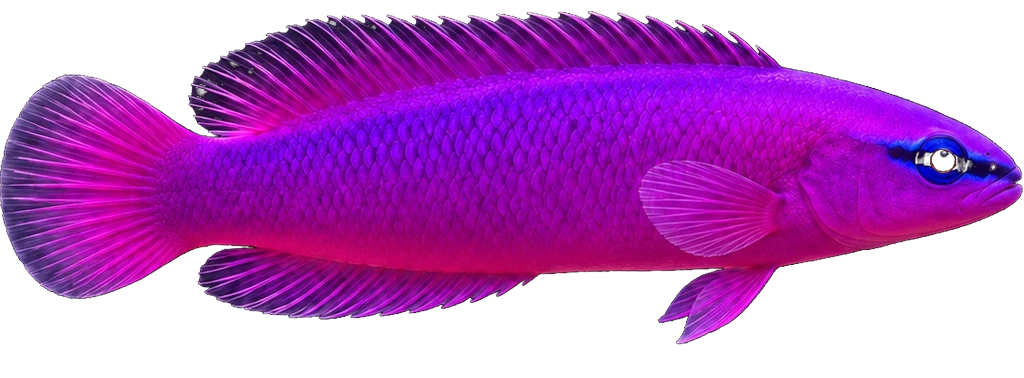
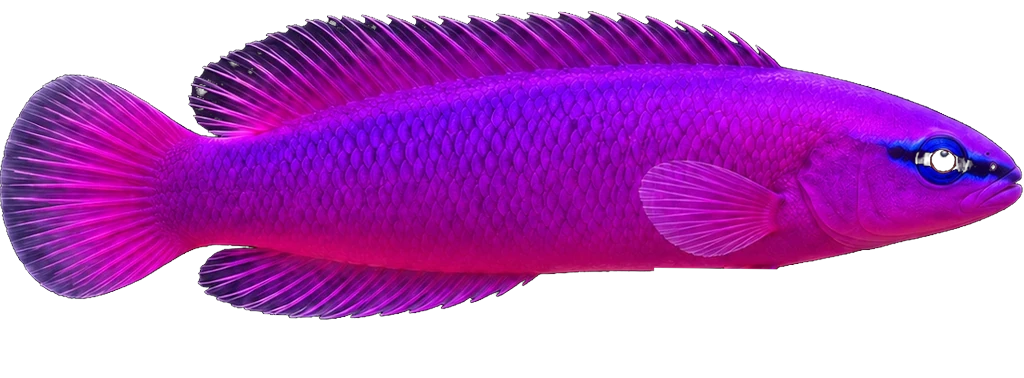
photoart round 2: rear belly bulge capped (anal fin base no longer lofted into the body), 3D pectoral/pelvic rooted on the body at the sheet's positions, pelvic erased from the card, wider low cheeks and bigger eye bulge; thickfit script

Changed region(s): [[0.625, 0.6984, 0.7812, 0.9312]]

diff --git a/scripts/fish3d-cutout-test.ts b/scripts/fish3d-cutout-test.ts
@@ -33,7 +33,13 @@ if (mode === 'measured') {
 }
 document.title += ' plan ok'; // photo cards already carry the fish's own eye and paired fins: drop the plan's 3D pectoral/pelvic leaves (?paired=keep keeps them),
 // and either hide the 3D eye (default) or seat it on the photo's eye (?eye=place&ex=px&ey=px&er=px, sheet pixels, SL in sheet px = esl, axis y = eaxis)
-if (mode === 'measured' && q.get('paired') !== 'keep') { P.pectoral = false; delete P.pelvic; }
+if (mode === 'measured' && q.get('paired') === 'photo') {
+  // 3D pectoral and pelvic rooted where the sheet's side view roots them (sheet px: snout 1275, axis 207, SL 896; pectoral root 1010,233; pelvic root 1005,295, 120 px long)
+  const sl = 896, SLc = 1 - P.pedU, pu = 1 - (1275 - 1010) / sl * SLc, [pt, pb] = profile(P)(pu), pv = (26 / sl * SLc - pt) / (pb - pt);
+  P.pectoral = true; P.pec = { u: pu, v: pv, s: +(q.get('pecs') ?? 1), tint: '#b848c8', ...(q.get('pecspread') ? { spread: +q.get('pecspread') } : {}) };
+  P.pelvic = { u: 1 - (1275 - 1005) / sl * SLc, len: 120 / sl * SLc, tint: '#c050e0' };
+} else if (mode === 'measured' && q.get('paired') !== 'keep') { P.pectoral = false; delete P.pelvic; }
+if (mode !== 'current') { if (q.get('wide')) P.wide = +q.get('wide'); if (q.get('bulge')) P.eye = { ...P.eye, bulge: +q.get('bulge') }; if (q.get('belly')) P.belly = +q.get('belly'); }
 if (mode !== 'current') {
   if (q.get('eye') === 'place') {
     const sl = +q.get('esl'), U1 = 1, SLc = 1 - P.pedU, u = U1 - (+q.get('sx') - +q.get('ex')) / sl * SLc, v = (+q.get('eaxis') - +q.get('ey')) / sl * -1 * SLc;
@@ -60,5 +66,5 @@ function shoot(yaw, pitch) {
 }
 const sheet = document.createElement('canvas'); sheet.width = W * 2; sheet.height = H * 2 + 0; const x = sheet.getContext('2d'); x.font = '16px sans-serif'; x.fillStyle = '#fff';
 VIEWS.forEach(([l, y, p], i) => { x.drawImage(shoot(y, p), (i % 2) * W, Math.floor(i / 2) * H); x.fillText(`${mode} | ${l}`, (i % 2) * W + 8, Math.floor(i / 2) * H + 20); });
-await new Promise(r => sheet.toBlob(async b => { await fetch('/__shot?name=ORCH3D' + suf + '-' + mode + (q.get('fins') === '0' ? '-nofins' : '') + (q.get('eye') === 'place' ? '-eye' : '') + (q.get('paired') === 'keep' ? '-pairs' : ''), { method: 'POST', body: b }); r(); }, 'image/png'));
+await new Promise(r => sheet.toBlob(async b => { await fetch('/__shot?name=ORCH3D' + suf + '-' + mode + (q.get('fins') === '0' ? '-nofins' : '') + (q.get('eye') === 'place' ? '-eye' : '') + (q.get('paired') ? '-p' + q.get('paired') : '') + (q.get('pecs') ? '-s' + Math.round(+q.get('pecs') * 100) : '') + (q.get('wide') ? '-w' + Math.round(+q.get('wide') * 100) : ''), { method: 'POST', body: b }); r(); }, 'image/png'));
 document.getElementById('s').textContent = 'done ' + mode; document.title = 'done ' + mode;

diff --git a/src/art/photoart.ts b/src/art/photoart.ts
@@ -17,8 +17,13 @@ const top = d.stations.map((s, i) => [U(s), -Wd(d.top[i])] as [number, number]),
 Object.assign(P, { pedU, outline: [...top, ...bot.reverse()] });
 P.thick = A.thickness.fit.thick; P.pedT = A.thickness.fit.pedT;                       // from the top view's widths
 P.tail = { ...P.tail, h: Wd(Math.max(...A.fins.caudal.outline.map(c => (c[1] + c[2]) / 2))) };
-P.pectoral = false; delete P.pelvic;                                                    // the photo already carries both
+// paired fins: 3D ones rooted where the sheet's side view roots them (sheet px: snout 1275, axis 207, SL 896; pectoral root 1010,233; pelvic root 1005,295, 120 px long),
+// so the front and 3/4 views show fins attached to the body; the card image has the pelvic erased (the 3D one replaces it), the painted pectoral stays flat on the flank
+{ const sl = 896, pu = 1 - (1275 - 1010) / sl * SLc, [pt, pb] = profile(P)(pu);
+  P.pectoral = true; P.pec = { u: pu, v: (26 / sl * SLc - pt) / (pb - pt), s: 1.2, tint: '#b848c8', spread: 1.0 };
+  P.pelvic = { u: 1 - (1275 - 1005) / sl * SLc, len: 120 / sl * SLc, tint: '#c050e0' }; }
+P.wide = 0.3;                                                                           // head-on the sheet's body is widest low, a round chin
 // the photo's own eye (sheet px: eye centre 1190,177, ring radius 14, snout 1275, axis 207, SL 896) gets a 3D eye seated on it
 { const sl = 896, u = 1 - (1275 - 1190) / sl * SLc, v = -(207 - 177) / sl * SLc, [et, eb] = profile(P)(u);
-  P.eye = { ...P.eye, u, dv: (v - et) / (eb - et) - 0.38, r: 14 / sl * SLc, iris: ['#c8902a', '#0a0206'] }; }
+  P.eye = { ...P.eye, u, dv: (v - et) / (eb - et) - 0.38, r: 14 / sl * SLc, bulge: 0.6, iris: ['#c8902a', '#0a0206'] }; }
 FISH_ART.orchiddottyback = (ctx, _p, W) => ctx.drawImage(img, 0, 0, W, W * (ctx.canvas.height / ctx.canvas.width));

diff --git a/scripts/fish-thickfit.py b/scripts/fish-thickfit.py
@@ -1,0 +1,18 @@
+#!/usr/bin/env python3
+"""Fit fish3d sections() half-thickness (thick, pedT) to the top-view half-widths in anatomy.json (run after fish-topview.py).
+  python -I scripts/fish-thickfit.py anatomy.json"""
+import json, sys
+import numpy as np
+p = sys.argv[1]; J = json.load(open(p)); A = J['anatomy']; d = A['depthProfile']
+st = np.array(d['stations'], float); top = np.array(d['top']); bot = np.array(d['bottom']); hw = np.array(A['thickness']['halfWidthPctSL'])
+pedU = 1 - 1 / A['tlOverSl']; SLc = 1 - pedU
+hv = (top + bot) / 2 / 100 * SLc; maxHv = hv.max(); s = 1 - st / 100; tm = hw / 100 * SLc
+best = None
+for thick in np.linspace(0.2, 1.6, 141):
+    for pedT in np.linspace(0, 1, 101):
+        t = thick * (0.35 * hv + 0.65 * maxHv * np.sin(np.minimum(1, hv / maxHv) * np.pi / 2)) * (pedT + (1 - pedT) * np.sqrt(np.clip(s, 0, 1)))
+        e = np.sqrt(np.mean((t - tm)[1:-1] ** 2))
+        if best is None or e < best[0]: best = (e, thick, pedT)
+e, thick, pedT = best
+A['thickness']['fit'] = {'thick': round(float(thick), 3), 'pedT': round(float(pedT), 3), 'rmsPctSL': round(float(e / SLc * 100), 2), 'note': 'least-squares fit of fish3d sections() half-thickness to the top-view half-width'}
+json.dump(J, open(p, 'w'), indent=1); print(A['thickness']['fit'])

diff --git a/scripts/fish-cutout-card.py b/scripts/fish-cutout-card.py
@@ -7,11 +7,14 @@ Alpha = brightness above a low threshold (black background photos only; for busy
 import json, sys
 import numpy as np
 from PIL import Image
-pos = [a for a in sys.argv[1:] if not a.startswith('--')]
+pos = [a for i, a in enumerate(sys.argv[1:]) if not a.startswith('--') and not (i > 0 and sys.argv[i].startswith('--'))]
 opt = {a: sys.argv[i + 2] for i, a in enumerate(sys.argv[1:-1]) if a.startswith('--')}
 src, js, out = pos
 asp = float(opt.get('--aspect', 0.369))
-J = json.load(open(js)); im = Image.open(src).convert('RGB'); a = np.asarray(im)
+J = json.load(open(js)); im = Image.open(src).convert('RGB')
+for e in [v for k, v in opt.items() if k == '--erase']:   # x0,y0,x1,y1 in source-photo px: blacked out before the cutout (a fin the 3D model draws itself)
+    x0, y0, x1, y1 = map(int, e.split(',')); im.paste((0, 0, 0), (x0, y0, x1, y1))
+a = np.asarray(im)
 k = im.width / J['source']['px'][0]
 sx, sy = [v * k for v in J['anatomy']['landmarks']['snoutPxOriginal']]
 TL = J['anatomy']['tlPx'] * k

diff --git a/scripts/fish-outline.py b/scripts/fish-outline.py
@@ -205,6 +205,11 @@ def main():
     med5 = [sorted(bot_prof[j - 2:j + 3])[2] for j in range(2, len(bot_prof) - 2)]
     for j in range(2, len(bot_prof) - 2):
         bot_prof[j] = round(min(bot_prof[j], med5[j - 2] + 1.0), 2)
+    # the anal fin's base hangs below the rear belly and survives as a bulge at 80-95 %: the belly there runs straight from the 75 % value to the peduncle
+    i75, i100 = stations.index(75), stations.index(100)
+    for j in range(i75 + 1, i100):
+        line = bot_prof[i75] + (bot_prof[i100] - bot_prof[i75]) * (stations[j] - 75) / 25.0
+        bot_prof[j] = round(min(bot_prof[j], line), 2)
     # --- fins: where the full mask sticks out of the body mask
     def sticks(sign):
         """x ranges where the full mask extends >=3 px beyond the body edge (sign -1 top, +1 bottom)."""
